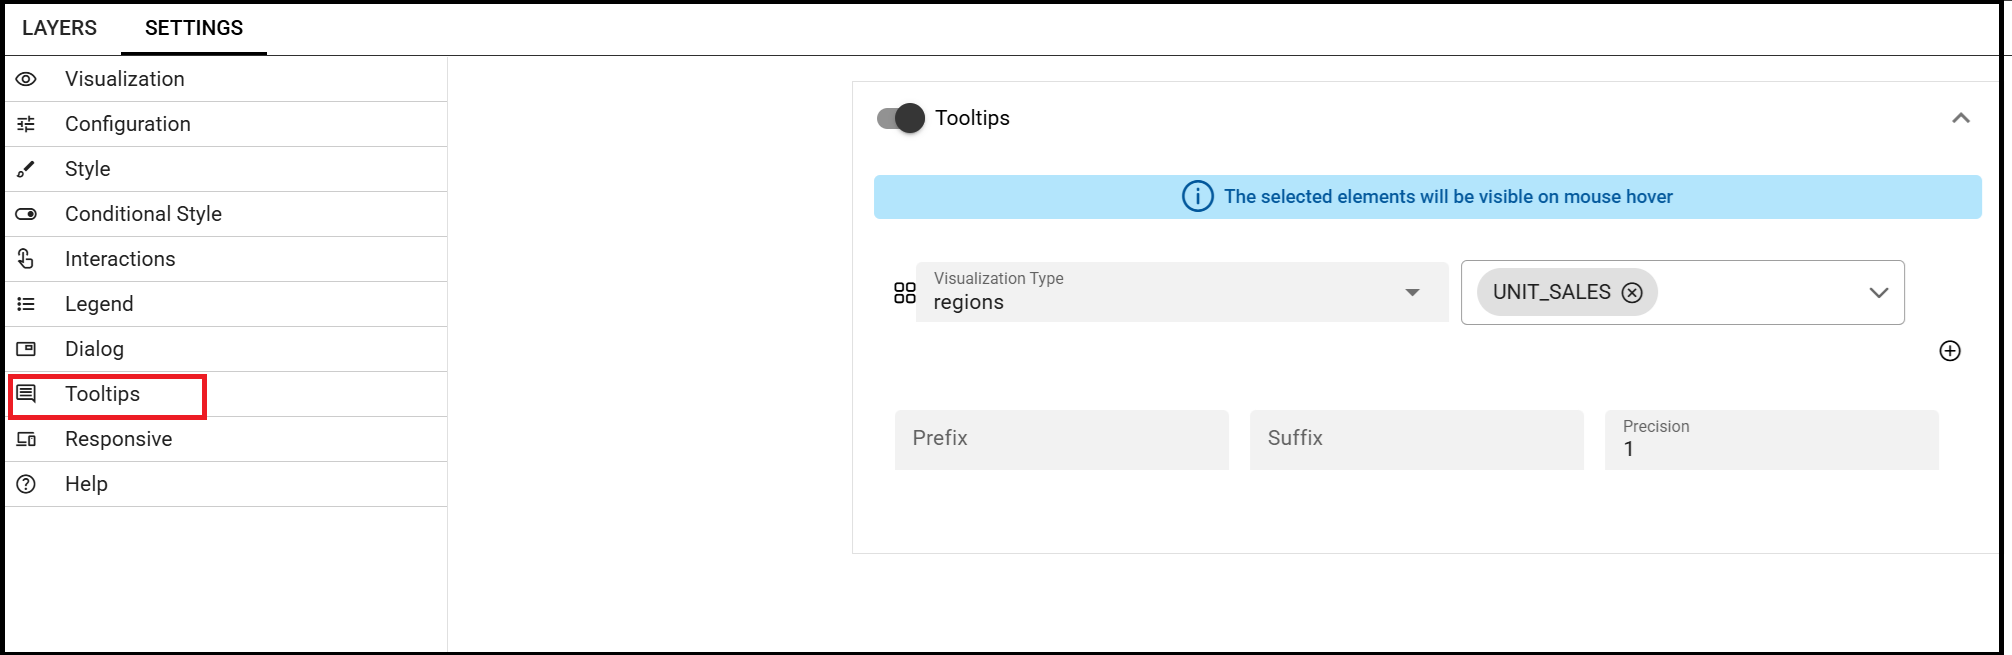
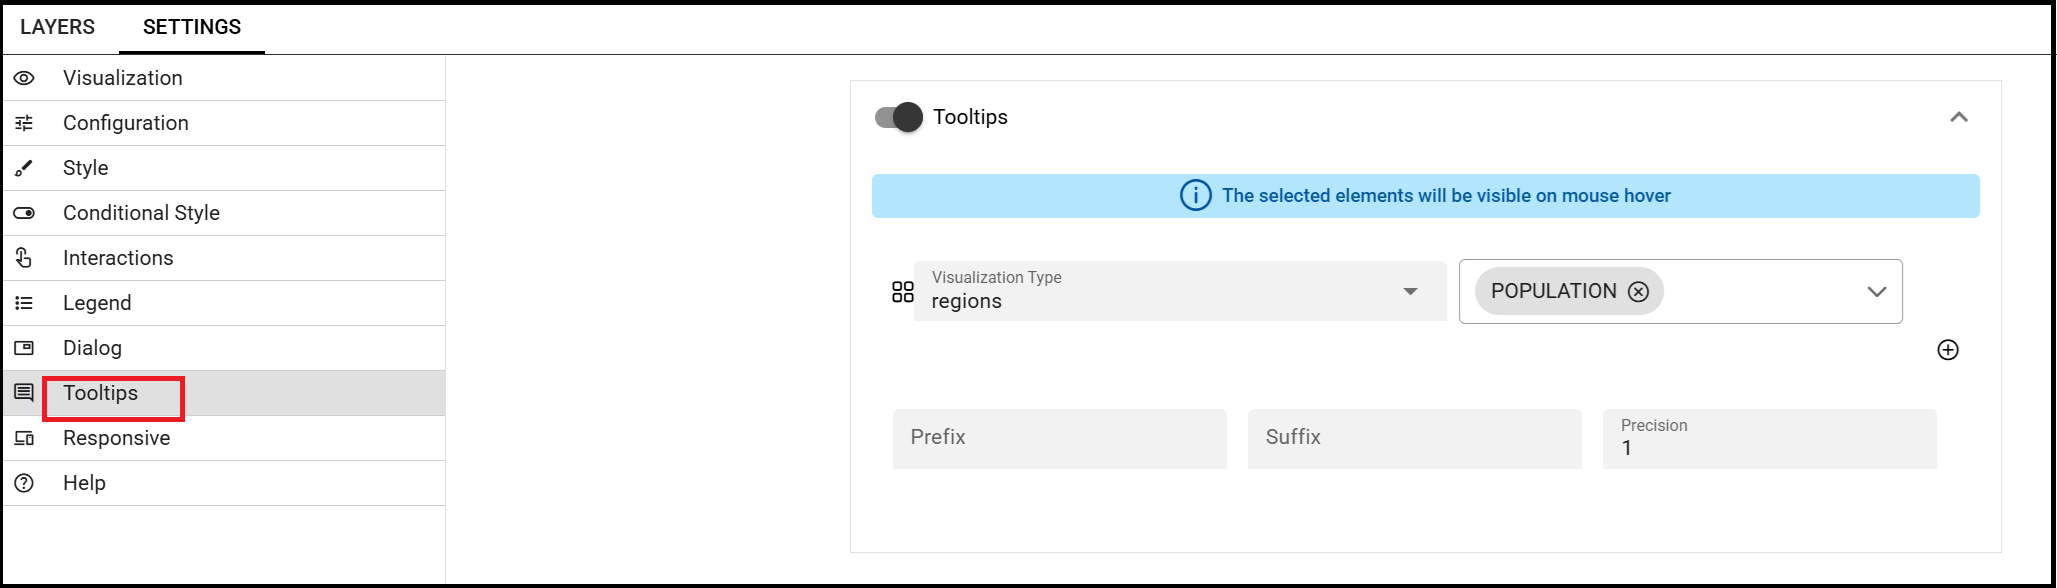
fix_map_15

diff --git a/chapter_3/create_new_dashboard/index.rst b/chapter_3/create_new_dashboard/index.rst
@@ -1275,16 +1275,15 @@ The below example shows a map with markers.
 
         Data visualization types on a map
 
-Below, we will see an example of a map created by using a topojson file and a choroplet as the visualization type.
+Below an example of a map created by using a topojson file and a choroplet as the visualization type.
 The topojson file was previously created under the *CATALOGS>Layers* menu item and will be added as a layer to the map widget.
-Furtherly the figure below shows also the definition of the *Data Connection* as *Join*.
-
+Furtherly the figure below shows also the definition of the *Data Connection* as *Join*. This is because a combination between a dataset and a topojoson file has been used as both of them have in common the column ID_1.
 .. figure:: media/image111.png
 
         Example of map settings
 
-The goal is to show the unit sales for each region when hovered over with the mouse. To do this, you will need to enable a *Tooltip* by choosing 
-the layer and property to display.
+The goal is to show the *POPULATION* for each region when hovered over with the mouse. 
+To do this, you will need to enable a *Tooltip* by choosing the layer and property to display.
 
 .. figure:: media/image112_map.png
 